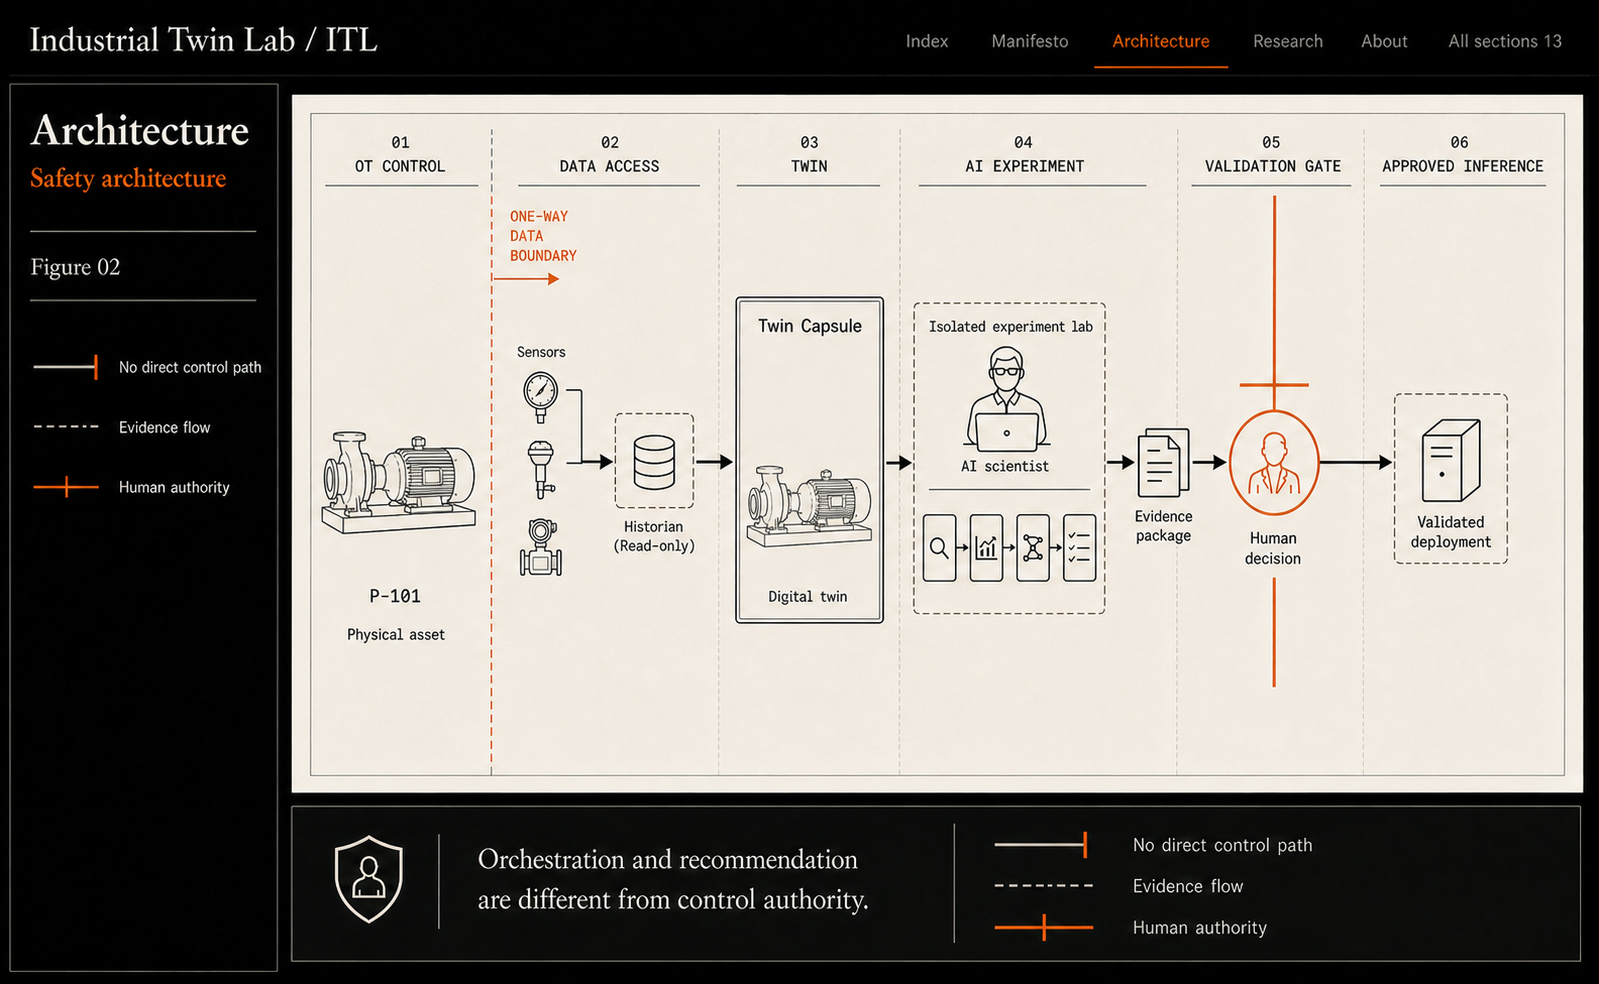
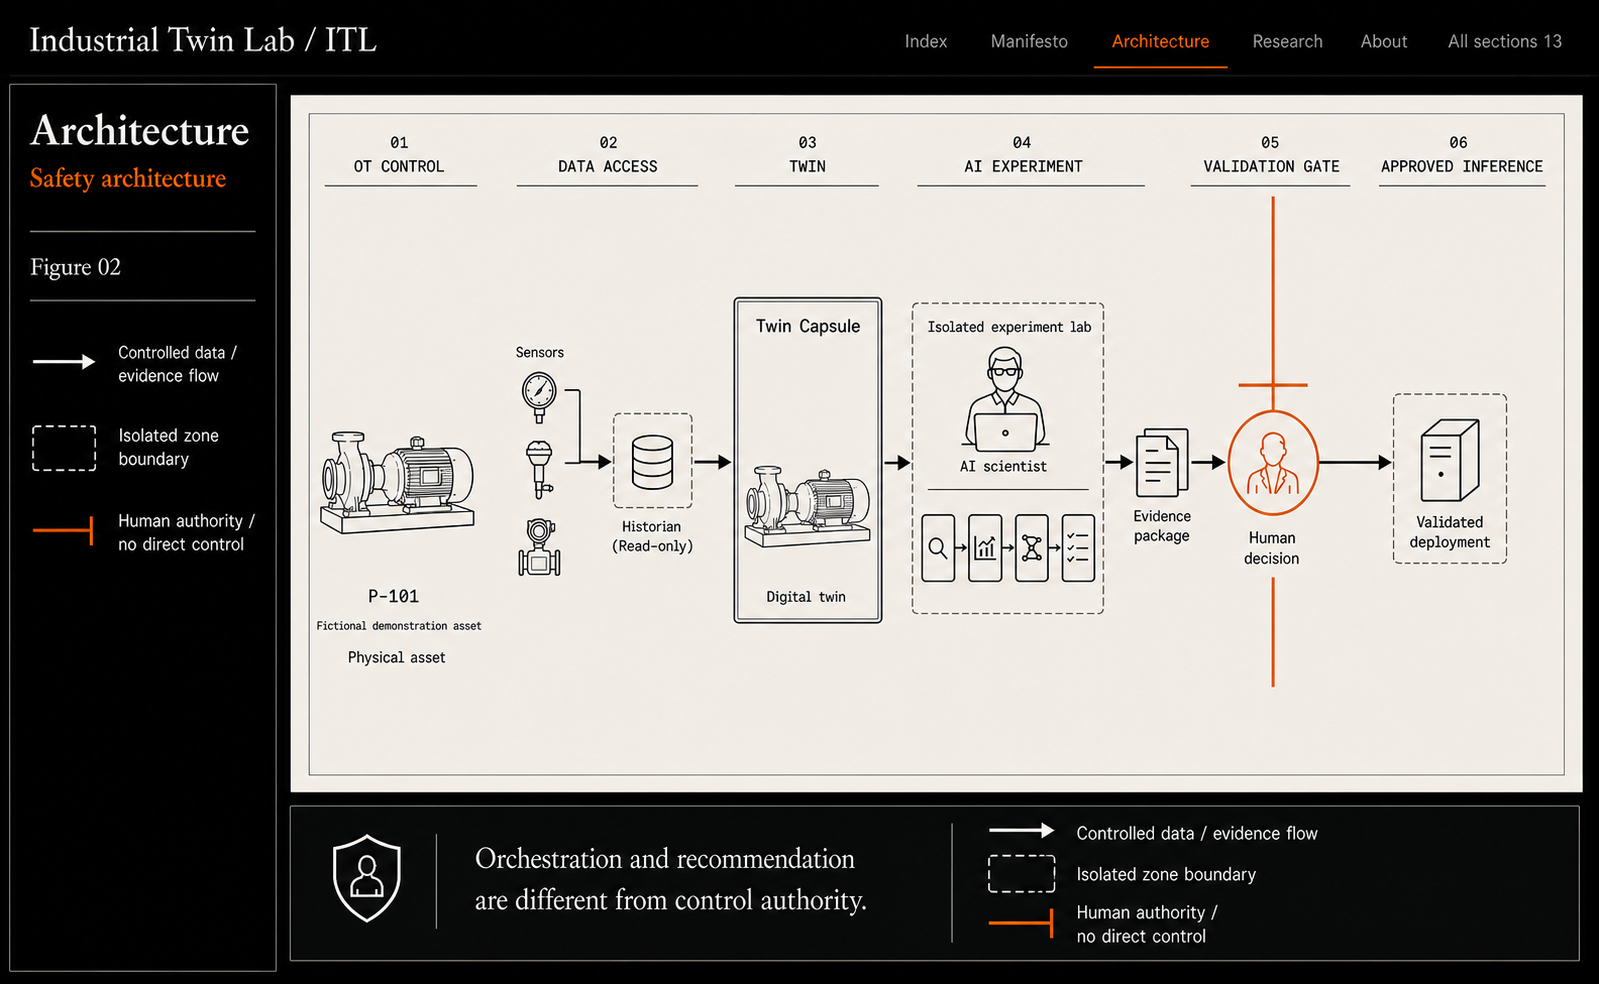
docs: correct Phase 1 visual contract

diff --git a/docs/design/phase-1/design-system.md b/docs/design/phase-1/design-system.md
@@ -46,22 +46,54 @@ or decorative gradients.
   --color-paper-raised: #f2eee5;
   --color-paper-technical: #d7d2c6;
   --color-ink: #171813;
-  --color-ink-muted: #6d6b63;
+  --color-ink-muted: #5b5953;
   --color-rule: #b9b4a9;
   --color-rule-strong: #817e76;
   --color-rule-dark: #3a3b37;
   --color-text-on-dark: #eeeae0;
   --color-text-on-dark-muted: #a9aaa4;
   --color-signal: #df5b2f;
+  --color-signal-ink: #9b3b1a;
+  --color-focus-on-light: #9b3b1a;
+  --color-focus-on-dark: #df5b2f;
+  --color-focus: var(--color-focus-on-light);
+}
+
+.surface-dark {
+  --color-focus: var(--color-focus-on-dark);
 }
 ```
 
-- `--color-signal` is reserved for active navigation, clause numbers, critical
-  annotations, safety boundaries, focus rings, and selected control states.
+- `--color-signal` is the bright brand accent. On dark surfaces it may be used for
+  focus geometry, active underlines, and large marks. On light surfaces it is
+  decorative only and cannot carry meaning by itself: `#df5b2f` is only `2.92:1`
+  on `--color-paper`.
+- `--color-signal-ink` is required for small orange text, clause numbers, critical
+  annotations, selected-control borders, safety boundaries, and other meaningful
+  orange marks on light surfaces.
+- Focus uses the surface-aware `--color-focus`: `--color-focus-on-light` on every
+  paper surface and `--color-focus-on-dark` on both shell surfaces.
 - Paper sections alternate only when hierarchy needs it; they are not cards.
 - Dark bands use `--color-shell-deep`, never a gradient.
 - Body copy uses `--color-ink` or `--color-ink-muted`; muted text must still meet
   WCAG 2.2 AA contrast at its rendered size.
+
+Contrast values below use WCAG sRGB relative luminance and are minimums across the
+listed allowed surfaces:
+
+| Token pair | Contrast | Allowed use |
+| --- | ---: | --- |
+| `#5b5953` on `#e9e4d8` | `5.52:1` | Muted normal text on primary paper |
+| `#5b5953` on `#f2eee5` | `6.05:1` | Muted normal text on raised paper |
+| `#5b5953` on `#d7d2c6` | `4.64:1` | Muted normal text on technical paper |
+| `#9b3b1a` on `#e9e4d8` | `5.46:1` | Signal normal text and focus on primary paper |
+| `#9b3b1a` on `#f2eee5` | `5.98:1` | Signal normal text and focus on raised paper |
+| `#9b3b1a` on `#d7d2c6` | `4.59:1` | Signal normal text and focus on technical paper |
+| `#df5b2f` on `#292a27` | `3.90:1` | Non-text focus/active geometry on shell |
+| `#df5b2f` on `#11120f` | `5.08:1` | Focus/active geometry on deep shell |
+
+Do not substitute the original `#6d6b63` muted text or bright `#df5b2f` light-
+surface text for these accessible tokens.
 
 ## 4. Typography
 
@@ -226,15 +258,17 @@ independent marketing copy.
 
 ## 11. Diagram connectors and safety notation
 
-- Primary progression: `1px solid var(--color-ink)` with a simple `6px` triangular
-  arrowhead. Use only for a known one-way relationship.
-- Observation/reference: `1px dashed var(--color-ink-muted)` with a `4px 5px` dash
-  pattern and no arrowhead unless direction is known.
-- Safety boundary: `2px solid var(--color-signal)`, normally a vertical rule.
-- Blocked control path: ink line ending at a `12px` perpendicular signal-orange
-  stop bar. Never render it as a forward arrow.
-- Human authority: signal-orange gate/cross-bar and a human-review label. It is
-  visually stronger than adjacent connectors.
+- **Controlled data / evidence flow:** `1px solid var(--color-ink)` with a simple
+  `6px` triangular arrowhead. Use only for a known one-way relationship.
+- **Isolated zone boundary:** a closed `1px dashed var(--color-ink-muted)` rectangle
+  with a `4px 5px` dash pattern. Dashed styling is never a connector, flow line, or
+  arrow.
+- **Human authority / no direct control:** an ink line ending at a `12px`
+  perpendicular `--color-signal-ink` stop bar on paper; the human gate uses the
+  same signal-ink cross-bar and a visible human-review label. On a dark legend,
+  the stop bar may use `--color-signal`.
+- Other safety boundaries use `2px solid var(--color-signal-ink)` on light
+  surfaces. They remain paired with a text label and never rely on color alone.
 - Connectors turn at right angles. They do not glow, animate continuously, weave
   behind labels, or cross unrelated zones.
 - The architecture zone order is exactly `OT Control` → `Data Access` → `Twin` →
@@ -252,7 +286,8 @@ Package document, human decision, and approved-inference endpoint.
 
 - Base grid: `24 × 24`; complex diagram symbols may use `48 × 48` or `64 × 64`.
 - Stroke: `1.25px`, `currentColor`, square line caps and joins where practical.
-- Fill: none by default. Signal orange may fill only an active mark or gate.
+- Fill: none by default. Signal ink may fill only an active mark or gate on paper;
+  bright signal may fill the equivalent mark on a dark surface.
 - Icons always accompany text in navigation, controls, safety states, and complex
   diagrams. They never substitute for an accessible name.
 - Do not use emoji, clip art, AI-brain symbols, decorative factories, or a mixed
@@ -260,18 +295,26 @@ Package document, human decision, and approved-inference endpoint.
 
 ## 13. Interaction states
 
-- Text links: ink text with a `1px` underline offset by `0.35em`; orange only for
-  active/critical links. Hover thickens or shifts the underline without moving text.
+- Text links: ink text with a `1px` underline offset by `0.35em`. Active/critical
+  link text uses `--color-signal-ink` on paper. On dark surfaces, keep link text
+  light and use bright signal only for the underline. Hover thickens or shifts the
+  underline without moving text.
 - Buttons/controls: square corners, minimum `44px` height, `1px` ink border. Primary
-  actions use signal orange with ink or light text that passes AA contrast.
-- Focus visible: `2px solid var(--color-signal)` with `2px` offset. Never suppress
-  the browser focus indicator without replacing it.
-- Selected controls: signal-orange border or underline plus a text/state cue; color
-  is not the only signal.
+  actions use `--color-signal-ink` with light text on paper and a contrast-checked
+  surface-specific treatment on dark sections.
+- Focus visible: `2px solid var(--color-focus)` with `2px` offset. Light and dark
+  surfaces set `--color-focus` as defined in the palette. Never suppress the
+  browser focus indicator without replacing it.
+- Selected controls: `--color-signal-ink` border/underline on paper, bright signal
+  geometry on dark surfaces, plus a text/state cue; color is not the only signal.
 - Disabled controls: `0.55` opacity, `not-allowed` cursor, and programmatic disabled
   state. Disabled appearance must not be used for read-only evidence.
 - Experiment updates announce through a polite live region and do not move focus.
   Result dimensions stay stable between valid configurations.
+- Shipping experiment results are exact deterministic textual values sourced from
+  typed fixtures. Each value includes its engineering unit where applicable and an
+  assistive-text equivalent. Do not infer a value, scale, rank, or magnitude from
+  the non-quantitative composition marks in `experiment-demo-concept.png`.
 - The exact disclosure `Conceptual demonstration — synthetic fixture results.`
   remains visible beside every generated result and Evidence Package.
 
